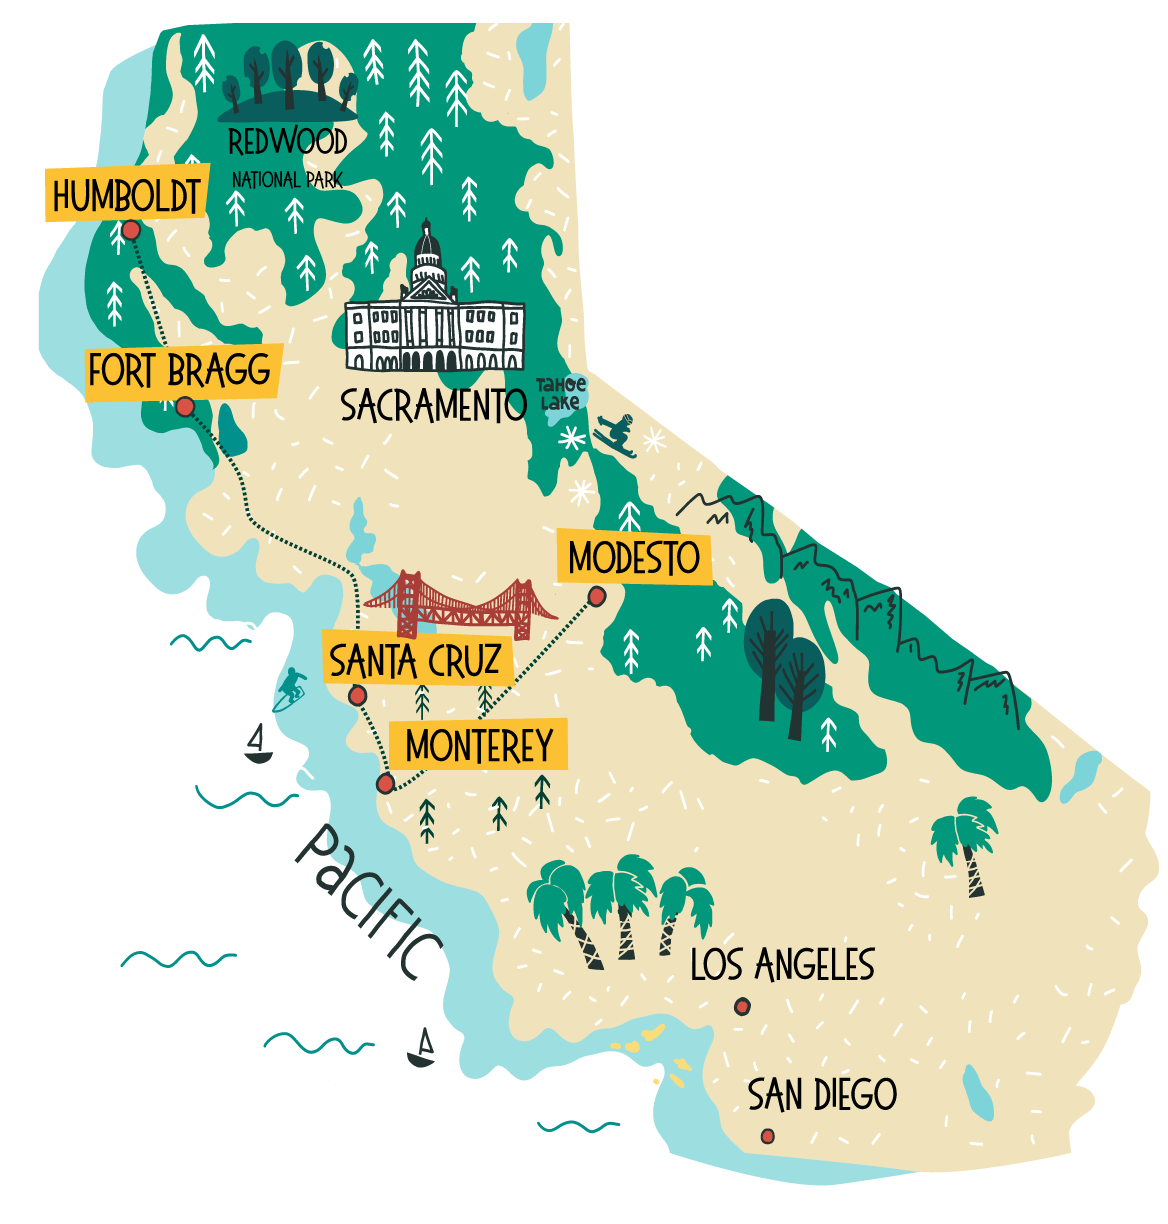
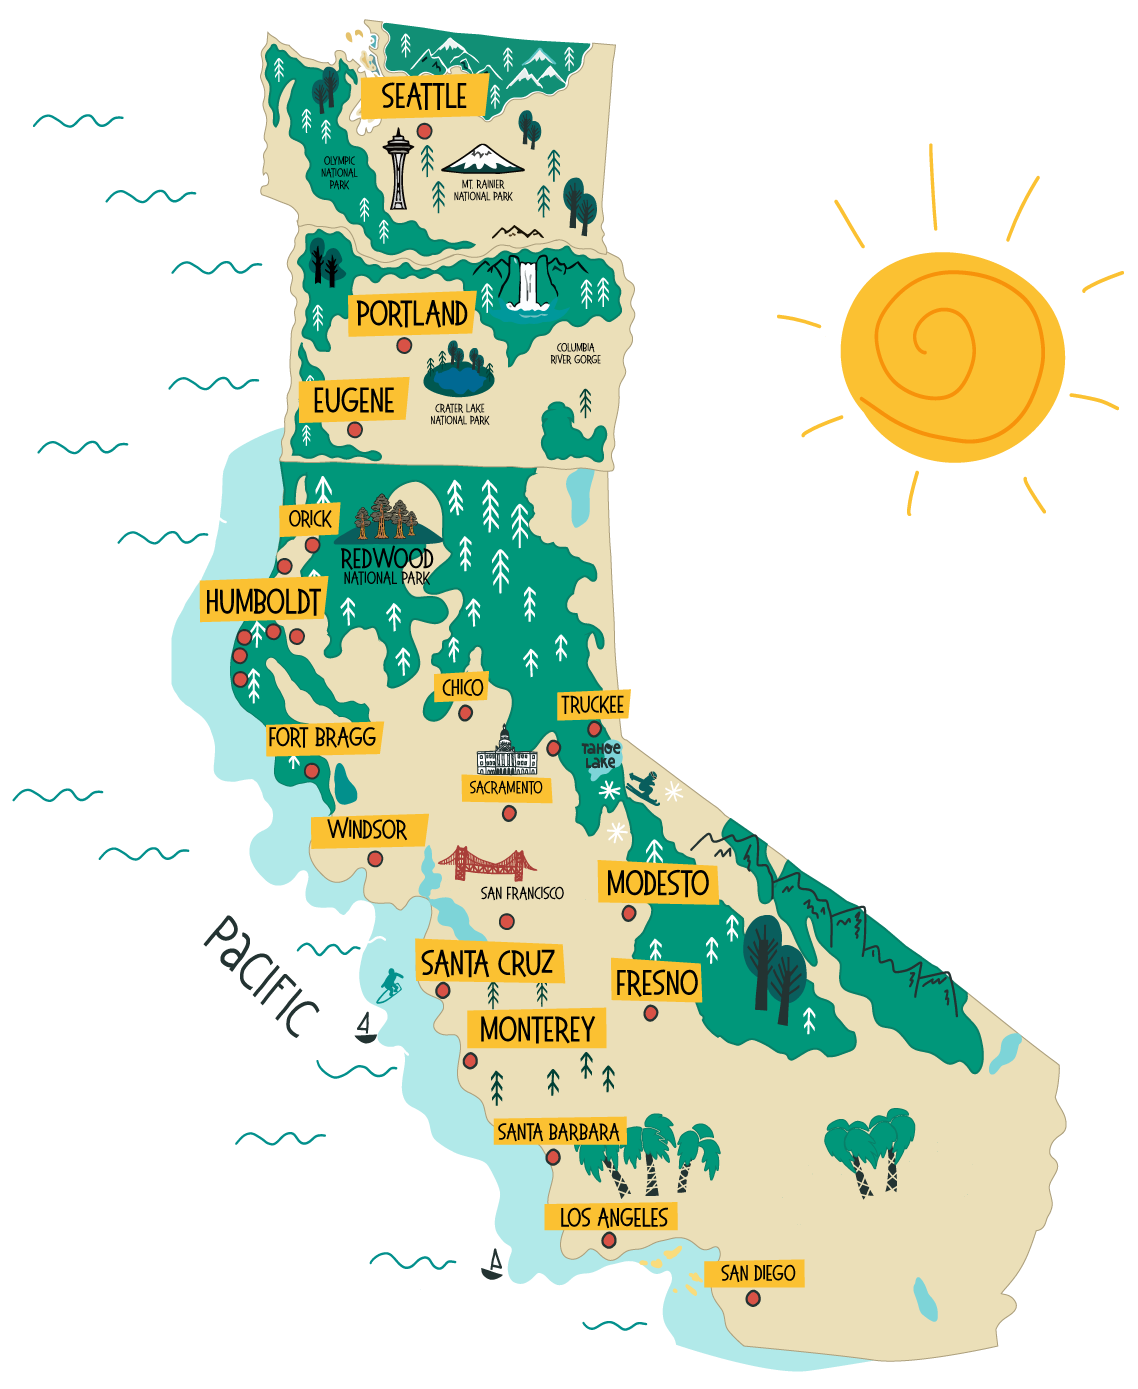
rv-mobile-alumni-center.html - remove big rv intro animation and add the map.

diff --git a/rv-mobile-alumni-center.html b/rv-mobile-alumni-center.html
@@ -53,10 +53,18 @@
 
     /* ---------- Intro / hero ---------- */
     .road-hero {
-      max-width: 800px;
-      margin: 0 auto -120px;
-      padding: 4rem 1.5rem 2rem;
-      text-align: center;
+      max-width: 1320px;
+      margin: 0 auto 4rem;
+      padding: 4rem 1.5rem 0;
+    }
+    .road-hero-inner {
+      display: grid;
+      grid-template-columns: minmax(0, 590px) minmax(500px, 1fr);
+      align-items: center;
+      gap: clamp(2rem, 5vw, 5.5rem);
+    }
+    .road-hero-copy {
+      max-width: 590px;
     }
     .road-hero h1 {
       color: #333;
@@ -68,42 +76,31 @@
     .road-hero p {
       font-size: 1.125rem;
       line-height: 1.6;
-      margin: 0 auto 1.25rem;
+      margin: 0 0 1.25rem;
     }
     .road-hero .byline {
       font-style: italic;
-      margin: 0 auto 30px;
+      margin: 0 0 30px;
     }
-    /* ------------------------------------------------------------------
-       LAUNCH SCENE
-       A tall section whose inner wrapper is sticky, so the big RV stays
-       centered on screen while we scroll through it. The scrubbed scale +
-       fade lives in JavaScript. 200vh gives the shrink room to breathe.
-    ------------------------------------------------------------------ */
-    .rv-launch {
-      position: relative;
-      height: 200vh;
-      margin-bottom: -100vh;
-      z-index: 2;
-    }
-    .rv-launch-inner {
-      position: sticky;
-      top: 0;
-      display: flex;
-      align-items: center;
-      justify-content: center;
-      height: 100vh;
-    }
-    /* the large "launch" RV that scales down into the driving RV. It is
-       roughly 4x the size of the driving RV (which is 230px). We set the
-       transform origin to the centre so it shrinks toward the road. */
-    .rv-launch .hero-rv {
+    .road-hero-map {
       display: block;
-      width: 720px;
-      max-width: 92vw;
-      transform-origin: center center;
-      will-change: transform, opacity;
-      filter: drop-shadow(0 18px 28px rgba(0,0,0,0.22));
+      width: min(100%, 620px);
+      margin-left: auto;
+      filter: drop-shadow(0 22px 34px rgba(0,0,0,0.18));
+    }
+
+    @media (max-width: 1120px) {
+      .road-hero {
+        max-width: 760px;
+      }
+      .road-hero-inner {
+        grid-template-columns: 1fr;
+        gap: 2rem;
+      }
+      .road-hero-map {
+        width: min(100%, 520px);
+        margin: 0 auto;
+      }
     }
 
     /* ------------------------------------------------------------------
@@ -213,18 +210,23 @@
 
     @media (max-width: 640px) {
       .road-hero {
-        margin: 0 auto -30px;
+        margin: 0 auto 2.5rem;
+        padding-top: 2.5rem;
+      }
+      .road-hero-inner {
+        display: flex;
+        flex-direction: column;
+        align-items: flex-start;
+        gap: 1.5rem;
+      }
+      .road-hero-map {
+        width: min(100%, 340px);
+        margin: 0 auto;
       }
       .rv-wrap {
         top: 56vh;
         z-index: 1;
         width: 200px;
-      }
-
-      .rv-launch-inner {
-        align-items: flex-start;
-        box-sizing: border-box;
-        padding-top: 2rem;
       }
 
       .stop {
@@ -260,40 +262,32 @@
        HERO / INTRO
        ============================================================ -->
   <header class="road-hero">
-<!--    <p class="kicker">Cal Poly Humboldt &middot; Fall 2026</p>-->
-    <h1>Humboldt Spirit Hits the Road</h1>
-    <p class="byline">By Iridian Casarez</p>
-    <p>
-      The Forever Humboldt Mobile Alumni Center is impossible to miss. Big,
-      bold, and decked out in Cal Poly Humboldt tributes, the vehicle has
-      become a rolling celebration of connection, community, and Humboldt
-      spirit.
-    </p>
-    <p>
-      The Mobile Alumni Center was designed to take the Humboldt spirit on
-      the road, allowing alumni, families, and friends to gather and stay
-      connected wherever they are. From Seattle to San Diego, the vehicle
-      brings alumni, families, students, and supporters together through
-      gatherings big and small&mdash;all with a little Lumberjack flair.
-      Whether it&apos;s tailgates, parades, river days, mixers, or campus
-      celebrations, the Mobile Alumni Center turns every stop into a chance to
-      reconnect and celebrate what it means to be part of the Humboldt family.
-    </p>
-  </header>
-
-  <!-- ============================================================
-       LAUNCH SCENE
-       The big hero RV lives in its own tall section. The inner wrapper is
-       sticky, so the RV stays centered on screen while you scroll. A
-       scrubbed ScrollTrigger shrinks it down to driving size and fades it
-       out, handing off to the small RV that starts the journey below.
-       ============================================================ -->
-  <section class="rv-launch">
-    <div class="rv-launch-inner">
-      <img class="hero-rv" id="heroRv" src="images/rv/rv.png"
-           alt="Illustrated Cal Poly Humboldt motorhome, ready to start its journey">
+    <div class="road-hero-inner">
+      <div class="road-hero-copy">
+  <!--    <p class="kicker">Cal Poly Humboldt &middot; Fall 2026</p>-->
+        <h1>Humboldt Spirit Hits the Road</h1>
+        <p class="byline">By Iridian Casarez</p>
+        <p>
+          The Forever Humboldt Mobile Alumni Center is impossible to miss. Big,
+          bold, and decked out in Cal Poly Humboldt tributes, the vehicle has
+          become a rolling celebration of connection, community, and Humboldt
+          spirit.
+        </p>
+        <p>
+          The Mobile Alumni Center was designed to take the Humboldt spirit on
+          the road, allowing alumni, families, and friends to gather and stay
+          connected wherever they are. From Seattle to San Diego, the vehicle
+          brings alumni, families, students, and supporters together through
+          gatherings big and small&mdash;all with a little Lumberjack flair.
+          Whether it&apos;s tailgates, parades, river days, mixers, or campus
+          celebrations, the Mobile Alumni Center turns every stop into a chance to
+          reconnect and celebrate what it means to be part of the Humboldt family.
+        </p>
+      </div>
+      <img class="road-hero-map" src="images/rv/rv-map.png"
+           alt="Illustrated map showing the Forever Humboldt Mobile Alumni Center route">
     </div>
-  </section>
+  </header>
 
   <!-- ============================================================
        THE JOURNEY
@@ -517,10 +511,9 @@
                               // (PHASE = 0 would start on the right instead)
     const TURN_BLEND = 0.22;   // lower = quicker PNG swap, higher = softer swap
     const INITIAL_DIRECTION_BLEND = 0.025;
+    const RV_ENTRY_PROGRESS = 0.08;
     const JOURNEY_END_EXTRA = 320;
-    const HANDOFF_FADE_START = 0.92;
 
-    const heroRv = document.getElementById("heroRv");
     const journey = document.querySelector(".journey");
     const roadOutro = document.querySelector(".road-outro");
     const roadSvg = document.querySelector(".road");
@@ -534,7 +527,6 @@
     let amp = 0;       // how far the RV swings from the middle (pixels)
     let H = 0;         // total height of the journey section
     let vh = 0;        // viewport height
-    let launchHandoffAlpha = 0;
     let journeyProgress = 0;
 
     /* The road is a cosine curve based on how far DOWN the road you are
@@ -546,7 +538,11 @@
       return centerX + amp * Math.cos(2 * Math.PI * WAVES * (y / H) + PHASE);
     }
 
-    /* Draw the road from the RV handoff line down through the page. */
+    function roadStartY() {
+      return Math.max(0, stopCards[0].offsetTop);
+    }
+
+    /* Draw the road from the top of the first stop card down through the page. */
     function buildRoad() {
       const W = journey.clientWidth;
       H = journey.clientHeight;
@@ -559,7 +555,7 @@
 
       let d = "";
       const STEP = 12;
-      const startY = rvCenterYInViewport() + rvWrap.offsetHeight * 0.28;
+      const startY = roadStartY();
       let lastY = startY;
       for (let y = startY; y <= H; y += STEP) {
         const x = roadXAt(y);
@@ -589,12 +585,6 @@
       return top + rvWrap.offsetHeight / 2;
     }
 
-    function roadStateAtProgress(progress, yOffset = 0) {
-      const scrollDistance = H + JOURNEY_END_EXTRA - vh;
-      const localY = rvCenterYInViewport() + progress * scrollDistance + yOffset;
-      return roadStateAtLocalY(localY);
-    }
-
     function roadStateAtLocalY(localY) {
       const theta = 2 * Math.PI * WAVES * (localY / H) + PHASE;
 
@@ -602,22 +592,6 @@
         x: amp * Math.cos(theta),
         slope: -Math.sin(theta)
       };
-    }
-
-    function heroHandoffScale() {
-      return rvWrap.offsetWidth / heroRv.offsetWidth;
-    }
-
-    function heroStartCenterYInViewport() {
-      const inner = heroRv.parentElement;
-      const innerStyle = getComputedStyle(inner);
-
-      if (innerStyle.alignItems === "flex-start") {
-        const paddingTop = parseFloat(innerStyle.paddingTop) || 0;
-        return paddingTop + heroRv.offsetHeight / 2;
-      }
-
-      return vh / 2;
     }
 
     function mobileCardCoverAmount() {
@@ -651,18 +625,26 @@
       return correction * smoothstep(0.86, 1, progress);
     }
 
-    function setJourneyRv(progress) {
+    function setJourneyRv(progress, isInJourney) {
       // Keep the RV visible through the last-card reveal on all screen sizes.
-      const wrapOpacity = launchHandoffAlpha;
       gsap.set(rvWrap, { y: 0 });
 
       const revealY = finalRevealY(progress);
       const rvRect = rvWrap.getBoundingClientRect();
       const journeyRect = journey.getBoundingClientRect();
-      const localY = rvRect.top + revealY + rvRect.height / 2 - journeyRect.top;
+      const baseLocalY = rvRect.top + rvRect.height / 2 - journeyRect.top;
+      const verticalEntryProgress = smoothstep(RV_ENTRY_PROGRESS * 0.7, RV_ENTRY_PROGRESS * 1.7, progress);
+      const entryY = gsap.utils.interpolate(roadStartY() - baseLocalY, 0, verticalEntryProgress);
+      const totalY = revealY + entryY;
+      const localY = baseLocalY + totalY;
       const state = roadStateAtLocalY(localY);
 
-      gsap.set(rvWrap, { x: state.x, y: revealY, rotation: state.slope * 4, opacity: wrapOpacity });
+      gsap.set(rvWrap, {
+        x: state.x,
+        y: totalY,
+        rotation: state.slope * 4,
+        opacity: isInJourney ? 1 : 0
+      });
 
       // Keep one PNG dominant while the RV is moving clearly left or right.
       // Only crossfade near the turning point, where the RV changes direction.
@@ -676,49 +658,12 @@
       gsap.set("#rvRight", { opacity: 1 - leftOpacity });
     }
 
-    function updateHandoffAlpha(self) {
-      launchHandoffAlpha = smoothstep(HANDOFF_FADE_START, 1, self.progress);
-      setJourneyRv(journeyProgress);
-    }
-
-    /* ---------- LAUNCH HANDOFF ----------
-       The big hero RV shrinks, slides, and tilts into the same road point
-       used by the sticky journey RV at progress 0. The journey section now
-       reaches the top of the viewport when this timeline completes, so the
-       two RVs crossfade at the same size and same point on the curve. */
     buildRoad();
-    gsap.timeline({
-      scrollTrigger: {
-        trigger: ".rv-launch",
-        start: "top top",
-        end: "bottom bottom",
-        scrub: true,
-        invalidateOnRefresh: true,
-        onUpdate: updateHandoffAlpha,
-        onRefresh: updateHandoffAlpha
-      }
-    })
-            .fromTo(heroRv,
-                    { scale: 1, x: 0, y: 0, rotation: 0, autoAlpha: 1 },
-                    {
-                      scale: heroHandoffScale,
-                      x: () => roadStateAtProgress(0).x,
-                      y: () => rvCenterYInViewport() - heroStartCenterYInViewport(),
-                      rotation: () => roadStateAtProgress(0).slope * 4,
-                      ease: "power1.inOut",
-                      duration: 0.88
-                    }
-            )
-            .to(heroRv,
-                    { autoAlpha: 1, ease: "none", duration: 0.04 }
-            )
-            .to(heroRv,
-                    { autoAlpha: 0, ease: "none", duration: 0.03 }
-            );
 
     function updateJourneyRv(self) {
       journeyProgress = self.progress;   // 0 at the top of the journey, 1 at the bottom
-      setJourneyRv(journeyProgress);
+      const isInJourney = self.isActive || self.progress > 0;
+      setJourneyRv(journeyProgress, isInJourney);
     }
 
     /* ---------- THE DRIVING RV ----------
@@ -728,7 +673,7 @@
        so it reverses cleanly instead of drifting. */
     ScrollTrigger.create({
       trigger: ".journey",
-      start: "top top",
+      start: "top bottom",
       end: () => `bottom+=${JOURNEY_END_EXTRA} bottom`,
       scrub: true,
       onUpdate: updateJourneyRv,